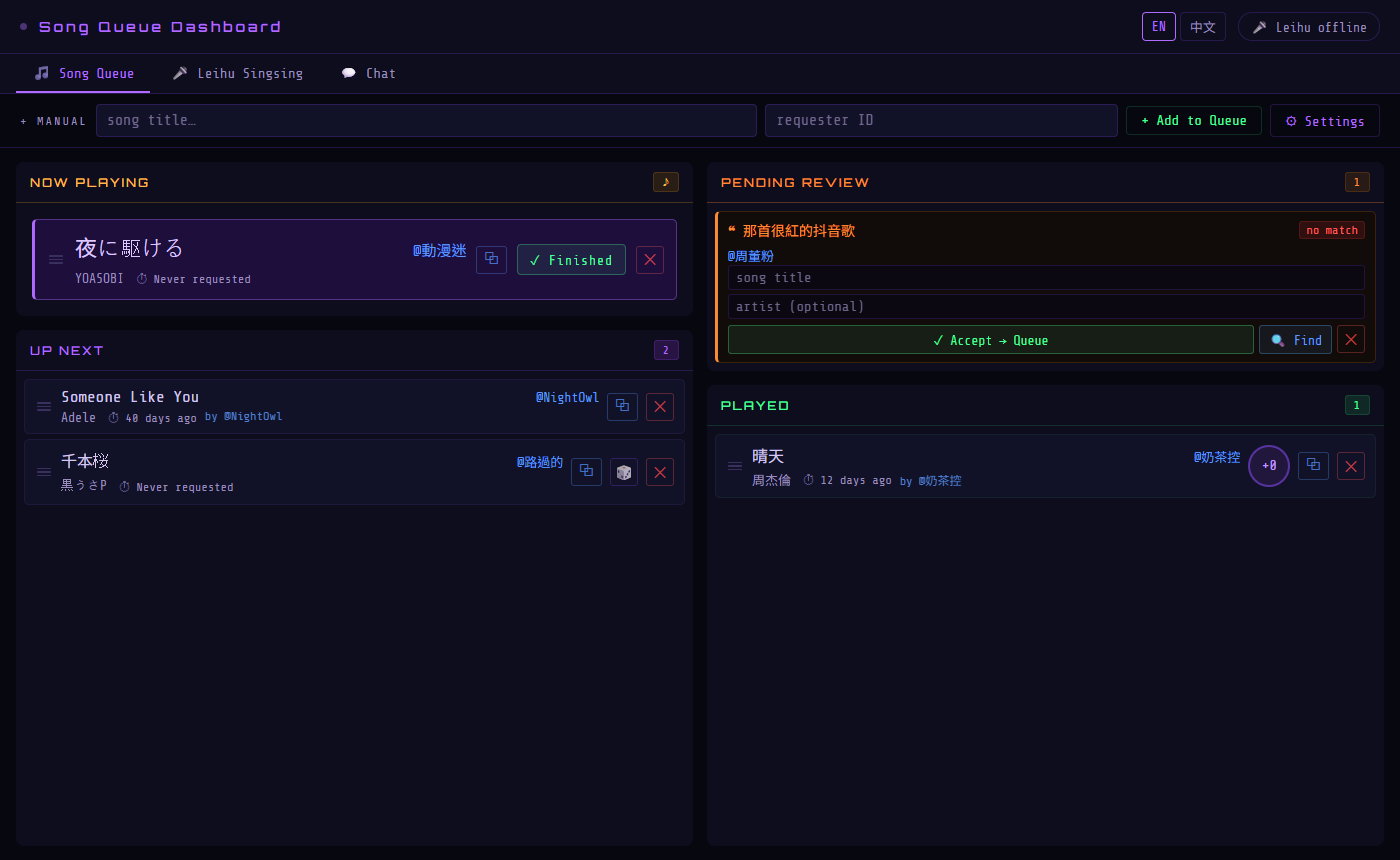
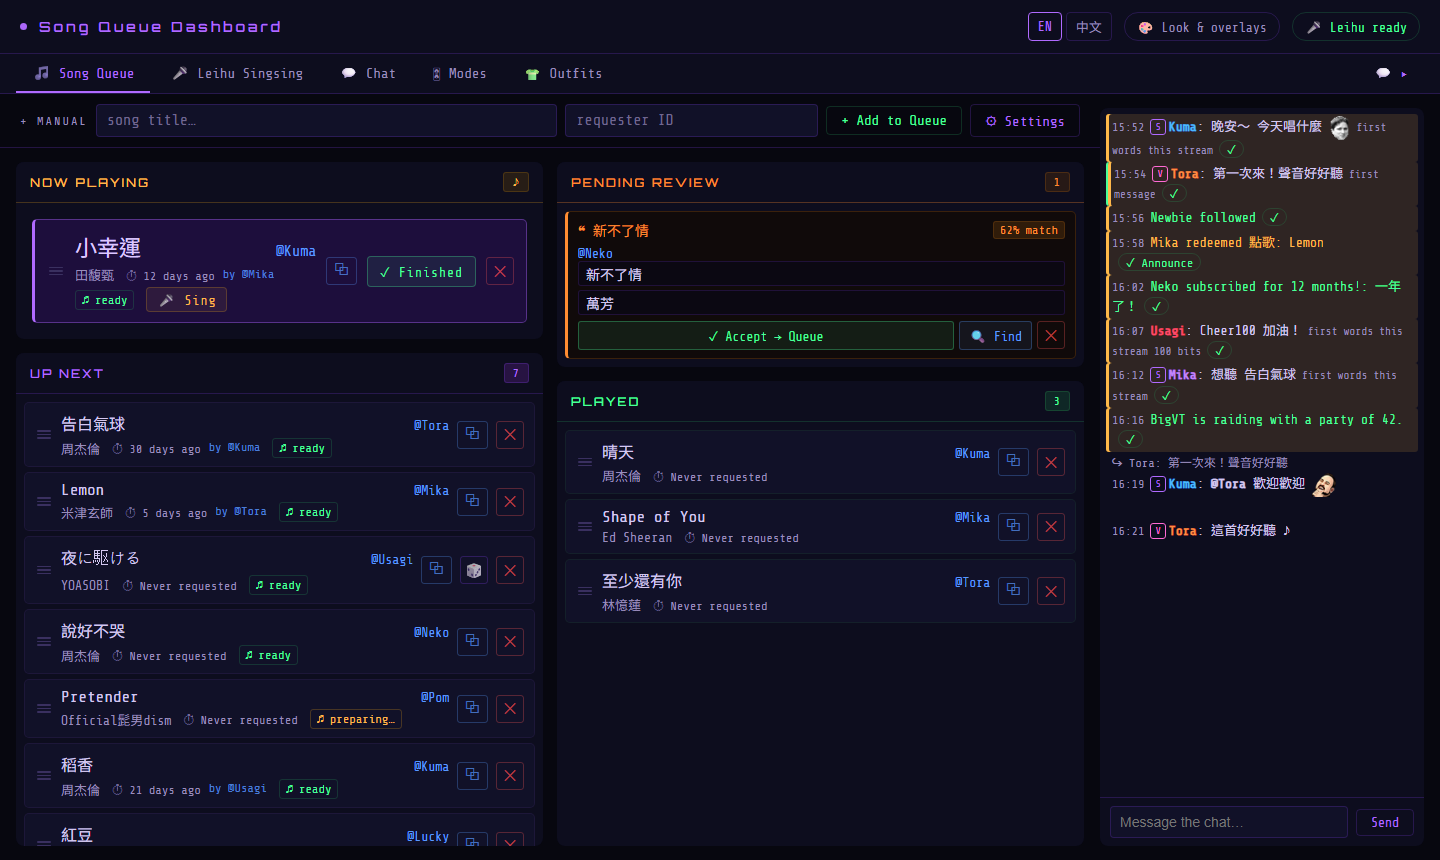
README: what the song queue does, with pictures; English README
New screenshots (demo data) of the dashboard, the song list, the chat on
stream, the break / starting-soon cards and the five themes. Also: the
top bar's Leihu chip no longer reads "offline" after switching language.

diff --git a/dashboard/index.html b/dashboard/index.html
@@ -929,7 +929,7 @@
   <span class="lang-switch" role="group" data-i18n-aria-label="dash.set.language"></span>
   <button class="chip tab-config-btn" id="app-config-btn" type="button" onclick="toggleTabConfig('app')" aria-expanded="false" aria-controls="config-app" data-i18n="dash.app.button">🎨 Look &amp; overlays</button>
   <button class="chip" id="leihu-chip" onclick="showTab('leihu')" data-i18n-title="dash.leihuChipTitle">
-    🎤 <span id="leihu-state" data-i18n="dash.leihuOffline">Leihu offline</span>
+    🎤 <span id="leihu-state">Leihu offline</span>   <!-- paintBadges() writes it, in the language shown -->
   </button>
 </div>
 

diff --git a/README.md b/README.md
@@ -1,65 +1,121 @@
 # 🎵 VTuber 點歌系統
 
-Twitch 頻道點數點歌，附 OBS 顯示層與連麥 Shoutout 功能。
+給 Twitch 實況主的點歌系統：觀眾用頻道點數點歌，歌單顯示在直播畫面上，你在一個控制台裡管理點歌、聊天室和直播場景。
+在你自己的電腦上執行，免費、開放原始碼。
+
+**[English](README_EN.md)** · **[新手入門（從零開始）](docs/STARTER_GUIDE_zh_TW.md)** · **[下載最新版本](https://github.com/sheng7337/twitch-song-request-system/releases/latest)** · **[更新紀錄](CHANGELOG.md)**
+
+![控制台：點歌佇列和聊天室](docs/images/dashboard-queue-zh.png)
+
+---
+
+## 可以做什麼
+
+### 🎵 頻道點數點歌
+- 觀眾兌換「點歌」並打上歌名，系統會比對你 Google 試算表裡的歌單：完全相同、打錯字、羅馬拼音、假名都找得到。
+  找不到的歌先放到「待審核」，由你決定。
+- **隨機點歌**獎勵：可以只從某個分頁抽（例如「隨機日語歌」），最近唱過的歌會冷卻幾天；很久沒被點的歌比較容易抽到。
+- 每首歌記錄上次被點的時間和點歌的人，卡片上直接看得到；直播中重新啟動也不會弄丟歌單。
+- 在控制台勾選哪些分頁可以被點（還在練的歌放在「待練勿點」就不會被點到）。
+
+<img src="docs/images/overlay-zh.png" width="320" alt="直播畫面上的歌單">
+
+### 🎤 雷虎練唱台（選用）
+搭配 [雷虎練唱台 Leihu Singsing](https://github.com/LeihuTW/Leihu-singsing)：從 YouTube 做出伴奏和時間軸歌詞。
+- 點歌進來可以自動準備伴奏，按「**🎤 練唱**」直接在雷虎練唱台打開這首歌，連 KEY 都調好。
+- 雷虎練唱台的畫面就在控制台的分頁裡；也可以一次準備整份歌單，並替歌單找好 YouTube 連結。
+
+### 💬 聊天室
+- 每個分頁旁邊都有即時聊天室：搜尋、篩選、看之前的直播。要感謝或打招呼的事件（第一次發言、訂閱、小奇點、揪團、兌換）會標出來。
+- 直接在控制台發言、回覆、封鎖／禁言、Shoutout、揪團、置頂訊息，以及完成或退還兌換。
+- **直播畫面上的聊天室**（取代 OneComme）：四種樣式，有 Twitch 徽章和表情符號；被刪除的訊息會立刻消失。
+
+<img src="docs/images/chat-overlay-zh.png" width="640" alt="直播畫面上的聊天室：面板和對話泡泡">
+
+### 🎛 模式
+「🎤 唱歌」「💬 聊天」「☕ 休息」……按一下就設定好 Streamlabs Desktop 或 OBS：場景、要顯示哪些來源、位置和音訊；
+還可以暫停 Clip、在聊天室發一則訊息、切換控制台分頁。
+
+### 🎬 Clip、感謝名單與揪團
+- `!so` 送出 Shoutout 並播放對方的 Clip；`!watch` 播放 Twitch Clip 或 YouTube。
+- `!tk` 感謝名單、`!endingtk` 片尾名單：揪團、訂閱、小奇點、新追隨、兌換、點歌和最活躍的觀眾。
+- **搭配片尾名單揪團**：系統算好時間播片尾名單，名單結束 10 秒後剛好出發。
+
+### 👕 換裝（veadotube mini）
+觀眾兌換獎勵後跳出卡片，點一下要穿的衣服；可以設定幾分鐘後換回預設服裝。
+
+### ☕ 休息中／準備中卡片
+放在直播畫面上的倒數卡片，網址加上 `?min=10` 或 `?at=20:00` 就會倒數。
+
+<img src="docs/images/cards.png" width="480" alt="休息中和準備中卡片">
+
+### 🎨 主題和文字大小
+五種主題（霓虹、日光、高對比、海洋、奶油咖啡），控制台和疊加層可以分開選，文字大小也可以調，版面不會跑掉。
+控制台在手機上也能用，中英文介面。
+
+<img src="docs/images/themes.png" alt="歌單疊加層的五種主題">
+
+---
+
+## 需要什麼
+
+- Windows 電腦，以及 [Node.js LTS](https://nodejs.org)
+- Twitch 帳號（要開啟雙重驗證，才能建立 Twitch 應用程式）
+- Google 帳號：歌單放在 Google 試算表
+- OBS Studio 或 Streamlabs Desktop
+- 選用：[雷虎練唱台](https://github.com/LeihuTW/Leihu-singsing)、veadotube mini
 
 ---
 
 ## 開始使用
 
 **第一次用、還沒有歌單？** 從 [新手入門（從零開始）](docs/STARTER_GUIDE_zh_TW.md) 開始 —— 不需要會寫程式。
-（English: [Starter Guide](docs/STARTER_GUIDE.md)）
 
 **首次安裝**：安裝 [Node.js LTS](https://nodejs.org)，然後雙擊 `start_zh.bat`，跟著瀏覽器的安裝精靈走即可。
 
-**每次直播**：雙擊 `start_zh.bat`，就這樣。
+**每次直播**：雙擊 `start_zh.bat`，就這樣。控制台在 `http://localhost:3000/dashboard`。
 
 **更新到新版本**：到[最新版本](https://github.com/sheng7337/twitch-song-request-system/releases/latest)先看「⚠ 需要動手」，再照[新手入門第 12 章](docs/STARTER_GUIDE_zh_TW.md#12-更新到新版本)的步驟 —— 你的設定不會被覆蓋。
-（English: read **⚠ Action needed** in [the latest release](https://github.com/sheng7337/twitch-song-request-system/releases/latest), then follow [Updating to a new version](docs/STARTER_GUIDE.md#12-updating-to-a-new-version).）
 
-**控制台**：`http://localhost:3000/dashboard` — 點歌佇列、雷虎練唱台，以及聊天室（篩選、標示要宣讀的訊息、直接發言和回覆、封鎖／禁言／Shoutout／揪團／置頂、完成或退還兌換），以及模式（一鍵切換 Streamlabs／OBS 的場景、顯示項目、音訊，並暫停 Clip、在聊天室發言）。
-
-> 完整說明請見 [SETUP_zh_TW.md](SETUP_zh_TW.md)
+> 完整說明請見 [SETUP_zh_TW.md](SETUP_zh_TW.md)；不用安裝精靈的手動設定見 [SETUP_MANUAL.md](SETUP_MANUAL.md)。
 
 ---
 
 ## OBS 瀏覽器來源
 
+控制台最上面的「**🎨 外觀與疊加層**」列出每一個網址和大小，可以直接「**複製**」。
+
 | 來源 | 網址 | 尺寸 |
 |---|---|---|
-| 歌單顯示層 | `http://localhost:3000/overlay/index.html` | 960×1470，縮小至 50%（480×735） |
-| Clip Player | `http://localhost:3000/clip-player/index.html` | 1920×1080 |
-| 聊天室 | `http://localhost:3000/overlay/chat.html?style=panel`（或 `bubble`、`list`、`row` 橫向一排） | 例如 960×1080（`row`：3840×200），縮小至 50% |
+| 歌單 | `http://localhost:3000/overlay/index.html` | 960×1470，在場景裡縮小到 50%（480×735） |
+| Clip 播放器 | `http://localhost:3000/clip-player/index.html` | 1920×1080 |
+| 聊天室 | `http://localhost:3000/overlay/chat.html?style=panel`（或 `bubble`、`list`、`row` 橫向一排） | 例如 960×1080（`row`：3840×200），縮小到 50% |
+| 休息中卡片 | `http://localhost:3000/overlay/break.html` | 960×260，縮小到 50% |
+| 準備中卡片 | `http://localhost:3000/overlay/break.html?card=opening` | 960×260，縮小到 50% |
 
-歌單顯示層 Custom CSS：
+歌單的自訂 CSS：
 ```css
 body { background-color: rgba(0, 0, 0, 0) !important; margin: 0px auto; overflow: hidden; }
 ```
 
 ---
 
-## 聊天指令（版主 / 台主限定）
+## 聊天指令（版主／台主限定）
 
 | 指令 | 說明 |
 |---|---|
-| `!so <帳號>` | 送出 Twitch 的 Shoutout，播放指定頻道的隨機 Clip，並記錄至感謝名單 |
+| `!so <帳號>` | 送出 Twitch 的 Shoutout，播放指定頻道的隨機 Clip，並記錄到感謝名單 |
 | `!tk` | 播放感謝名單，列出本場所有 `!so` 的頻道 |
 | `!endingtk` | 片尾感謝名單：揪團、訂閱、小奇點、新追隨、兌換、點歌和最活躍的聊天觀眾 |
 | `!watch <網址>` | 播放 Twitch Clip、YouTube 或影片連結 |
 | `!replay` | 重播上一個片段 |
-| `!stop` | 立即停止當前播放 |
+| `!stop` | 立即停止目前的播放 |
+
+**感謝名單的背景圖**：把圖片（jpg／png／gif／webp）放進 `clip-player/sponsor-bgs/`，可以放很多張，每次隨機選一張；
+重新啟動後生效。資料夾裡沒有圖片時，背景是深色。
 
 ---
-
-## !tk 背景圖設定
-
-每次呼叫 `!tk` 或 `!endingtk` 時，系統會從資料夾中隨機選取一張背景圖片。
-
-1. 將背景圖片（jpg / png / gif / webp）放入 `clip-player/sponsor-bgs/` 資料夾，可放多張
-2. 重新啟動伺服器
-
-> 若資料夾內沒有圖片，背景顯示為深色。
 
 ## 授權 / License
 
 [MIT](LICENSE)。雷虎練唱台（Leihu Singsing）是另一個軟體，有它自己的授權。
-MIT — see [LICENSE](LICENSE). Leihu Singsing is separate software with its own license.

diff --git a/README_EN.md b/README_EN.md
@@ -1,0 +1,124 @@
+# 🎵 VTuber Song Queue
+
+A song request system for Twitch streamers: viewers request songs with channel points, the song list shows on
+stream, and one dashboard runs the requests, the chat and your stream's scenes. It runs on your own PC, free and open source.
+
+**[繁體中文](README.md)** · **[Starter Guide (from scratch)](docs/STARTER_GUIDE.md)** · **[Download the latest release](https://github.com/sheng7337/twitch-song-request-system/releases/latest)** · **[Changelog](CHANGELOG.md)**
+
+![The dashboard: song queue and chat](docs/images/dashboard-queue-en.png)
+
+---
+
+## What it does
+
+### 🎵 Channel-point song requests
+- Viewers redeem "Request a song" and type a title; it's matched against your song list in Google Sheets — exact,
+  misspelled, romanized or kana titles all work. Songs it can't find wait in Pending Review for you to decide.
+- A **random song** reward, optionally from one tab only (e.g. "Random Japanese song"); songs sung recently cool
+  down for a few days, and songs nobody has asked for in a while come up more often.
+- Each song shows when it was last requested and by whom; the queue survives a restart mid-stream.
+- Tick which sheet tabs can be requested (songs you're still practising stay out).
+
+<img src="docs/images/overlay-en.png" width="320" alt="The song list on stream">
+
+### 🎤 Leihu Singsing (optional)
+Works with [Leihu Singsing](https://github.com/LeihuTW/Leihu-singsing), which makes backing tracks and timed lyrics from YouTube.
+- Requested songs can get their backing track ready by themselves; **🎤 Sing** opens the song in Leihu at its key.
+- Leihu shows in a dashboard tab; prepare the whole sheet ahead, and find YouTube links for it.
+
+### 💬 Chat
+- Live chat beside every tab: search, filters, earlier streams. What to thank or greet on stream (first chats,
+  subs, bits, raids, redemptions) is highlighted.
+- Send and reply, ban / timeout, Shoutout, raid, pin, and complete or refund redemptions — from the dashboard.
+- **Chat on stream** (instead of OneComme): four styles, Twitch badges and emotes; deleted messages leave at once.
+
+<img src="docs/images/chat-overlay-en.png" width="640" alt="Chat on stream: panel and bubbles">
+
+### 🎛 Modes
+"🎤 Singing", "💬 Talking", "☕ Break"… one click sets Streamlabs Desktop or OBS — scene, which sources show,
+positions and audio — and can hold clips, post in chat and switch the dashboard tab.
+
+### 🎬 Clips, thank-you rolls and raids
+- `!so` sends a Shoutout and plays one of their clips; `!watch` plays a Twitch clip or YouTube video.
+- `!tk` thank-you roll and `!endingtk` ending roll: raiders, subs, bits, new followers, redemptions, requests and
+  the most active chatters.
+- **Raid with the ending roll**: the roll is timed so the raid goes 10 seconds after it ends.
+
+### 👕 Outfits (veadotube mini)
+Viewers redeem a reward, a card pops up, and you click the outfit to wear; it can go back to your default after a few minutes.
+
+### ☕ Break and starting-soon cards
+Countdown cards for your stream: add `?min=10` or `?at=20:00` to the address.
+
+<img src="docs/images/cards.png" width="480" alt="On break and starting soon cards">
+
+### 🎨 Themes and text sizes
+Five themes (Neon, Daylight, High contrast, Ocean, Cream & coffee), picked apart for the dashboard and the overlays,
+and adjustable text sizes that keep the layout. The dashboard works on a phone too, in English or 繁體中文.
+
+<img src="docs/images/themes.png" alt="The song list in five themes">
+
+---
+
+## What you need
+
+- A Windows PC with [Node.js LTS](https://nodejs.org)
+- A Twitch account (with two-factor authentication on, to register a Twitch app)
+- A Google account: your song list lives in Google Sheets
+- OBS Studio or Streamlabs Desktop
+- Optional: [Leihu Singsing](https://github.com/LeihuTW/Leihu-singsing), veadotube mini
+
+---
+
+## Getting started
+
+**New, with no song list yet?** Start with the [Starter Guide](docs/STARTER_GUIDE.md) — no coding needed.
+
+**First install**: install [Node.js LTS](https://nodejs.org), double-click `start.bat` and follow the setup wizard in your browser.
+
+**Every stream**: double-click `start.bat`. The dashboard is at `http://localhost:3000/dashboard`.
+
+**Updating**: read **⚠ Action needed** in [the latest release](https://github.com/sheng7337/twitch-song-request-system/releases/latest), then follow [Updating to a new version](docs/STARTER_GUIDE.md#12-updating-to-a-new-version) — your settings aren't overwritten.
+
+> The full guide is [SETUP.md](SETUP.md); setting up by hand without the wizard: [SETUP_MANUAL.md](SETUP_MANUAL.md).
+
+---
+
+## OBS Browser Sources
+
+**🎨 Look & overlays** at the top of the dashboard lists each address and size, with **Copy**.
+
+| Source | Address | Size |
+|---|---|---|
+| Song list | `http://localhost:3000/overlay/index.html` | 960×1470, scaled to 50% in your scene (480×735) |
+| Clip player | `http://localhost:3000/clip-player/index.html` | 1920×1080 |
+| Chat | `http://localhost:3000/overlay/chat.html?style=panel` (or `bubble`, `list`, `row` for one line) | e.g. 960×1080 (`row`: 3840×200), scaled to 50% |
+| On break card | `http://localhost:3000/overlay/break.html` | 960×260, scaled to 50% |
+| Starting soon card | `http://localhost:3000/overlay/break.html?card=opening` | 960×260, scaled to 50% |
+
+Custom CSS for the song list:
+```css
+body { background-color: rgba(0, 0, 0, 0) !important; margin: 0px auto; overflow: hidden; }
+```
+
+---
+
+## Chat commands (mods / broadcaster)
+
+| Command | What it does |
+|---|---|
+| `!so <channel>` | Sends Twitch's Shoutout, plays a random clip of that channel, and adds it to the thank-you roll |
+| `!tk` | Plays the thank-you roll of every `!so` this stream |
+| `!endingtk` | The ending roll: raiders, subs, bits, new followers, redemptions, requests and the most active chatters |
+| `!watch <url>` | Plays a Twitch clip, YouTube or video link |
+| `!replay` | Plays the last clip again |
+| `!stop` | Stops what's playing now |
+
+**Roll backgrounds**: put pictures (jpg / png / gif / webp) in `clip-player/sponsor-bgs/`, as many as you like; one
+is picked at random each time. Restart to pick up new ones. With none there, the background is dark.
+
+---
+
+## License
+
+[MIT](LICENSE). Leihu Singsing is separate software with its own license.

diff --git a/CHANGELOG.md b/CHANGELOG.md
@@ -89,6 +89,8 @@ Desktop or OBS Studio 30+ · for outfits, veadotube mini 2.1+.
   stream fell slightly behind the music in the Leihu tab (but not in Leihu's own window), this should fix it.
   控制台的雷虎練唱台分頁現在會用它設定裡選的輸出裝置播放，和它自己的視窗一樣。之前瀏覽器不允許，雷虎練唱台只能用
   Windows 預設裝置播放。如果在雷虎練唱台分頁唱歌時，直播上的歌聲會稍微落後音樂（在它自己的視窗不會），這應該能修正。
+- Switching EN / 中文 no longer shows the top bar's Leihu as offline until the next check.
+  切換 EN／中文時，最上面的雷虎練唱台狀態不會再暫時顯示成未開啟。
 - On a phone the dashboard fits the screen: the top bar and the manual request bar wrap, and a long song
   title no longer makes the page wider than the screen.
   在手機上控制台不會超出畫面：最上面一列和手動點歌列會換行，很長的歌名也不會讓頁面變寬。
